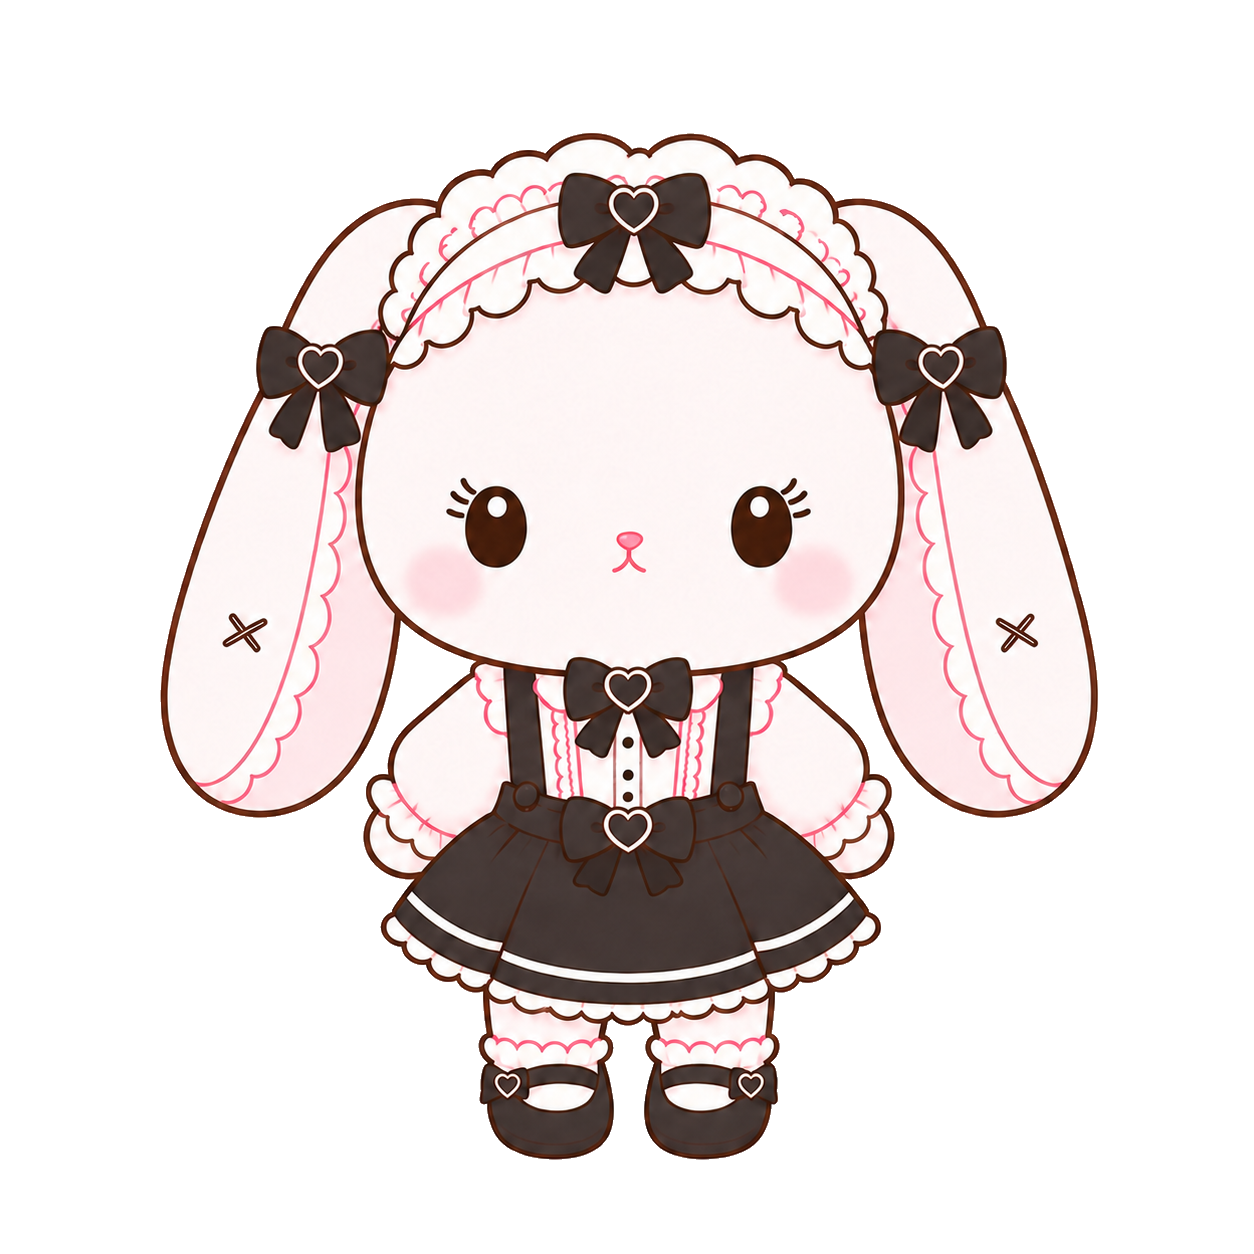
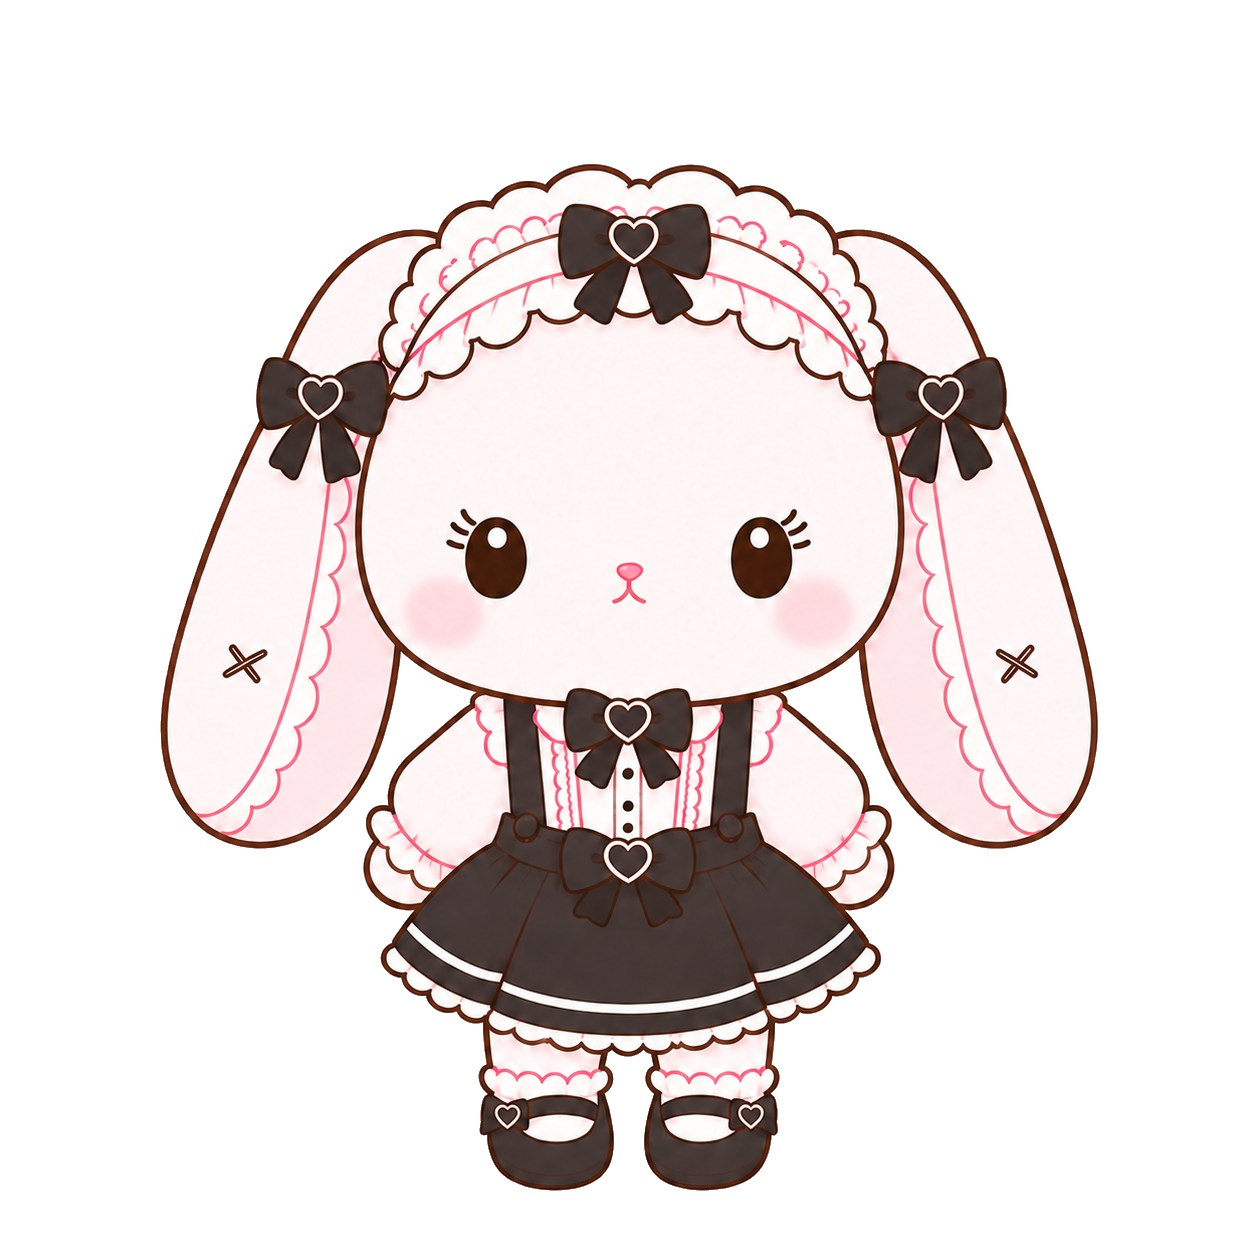
fix(companions): align skin feet + size Miel/Tira outfits
Home/wardrobe/gallery plant a companion by its art, so skins whose feet
sat at different Y in the canvas rendered higher/lower when switched.
Vertically align every off skin to its character's classic feet line:
honey/champion (-74px), bunny/jiraikei (-31), bun/dreams (+26),
bunny/palace (+12), tira/chocomint (+10).

Also: Miel's ZZZ pajamas were ~5% small -> head-matched to classic;
Tira's Carefree Days is now deliberately a touch smaller (baked into the
art), replacing the Home-only 0.92 scale hack. Metrics re-measured.

Changed region(s): [[0.1244, 0.0933, 0.9019, 0.9641], [0.4976, 0.4043, 0.5287, 0.4976]]

diff --git a/src/constants/figure-calibration.ts b/src/constants/figure-calibration.ts
@@ -6,20 +6,20 @@
 export const FIGURE_METRICS: Record<string, { fill: number; pad: number }> = {
   'bun/angel': { fill: 0.8605, pad: 0.0706 },
   'bun/classic': { fill: 0.8317, pad: 0.0758 },
-  'bun/dreams': { fill: 0.8644, pad: 0.0550 },
+  'bun/dreams': { fill: 0.8644, pad: 0.0758 },
   'bun/snowrabbit': { fill: 0.8309, pad: 0.0766 },
   'bun/strawberry': { fill: 0.7974, pad: 0.0766 },
   'companion_bunny/classic': { fill: 0.8939, pad: 0.0502 },
-  'companion_bunny/jiraikei': { fill: 0.8190, pad: 0.0750 },
-  'companion_bunny/palace': { fill: 0.9370, pad: 0.0407 },
+  'companion_bunny/jiraikei': { fill: 0.8190, pad: 0.0502 },
+  'companion_bunny/palace': { fill: 0.9370, pad: 0.0502 },
   'companion_cocoa/classic': { fill: 0.8876, pad: 0.0598 },
   'companion_cocoa/demon': { fill: 0.8892, pad: 0.0606 },
   'companion_cocoa/relax': { fill: 0.8349, pad: 0.0606 },
-  'companion_honey/champion': { fill: 0.8325, pad: 0.0845 },
+  'companion_honey/champion': { fill: 0.8325, pad: 0.0255 },
   'companion_honey/classic': { fill: 0.9537, pad: 0.0255 },
-  'companion_honey/zzz': { fill: 0.8644, pad: 0.0526 },
-  'companion_tira/afternoontrain': { fill: 0.8788, pad: 0.0502 },
-  'companion_tira/chocomint': { fill: 0.8828, pad: 0.0423 },
+  'companion_honey/zzz': { fill: 0.9107, pad: 0.0263 },
+  'companion_tira/afternoontrain': { fill: 0.7536, pad: 0.0510 },
+  'companion_tira/chocomint': { fill: 0.8828, pad: 0.0502 },
   'companion_tira/classic': { fill: 0.8788, pad: 0.0502 },
   'companion_tira/sleepover': { fill: 0.8796, pad: 0.0494 },
   'hanji/classic': { fill: 0.8692, pad: 0.0582 },

diff --git a/src/app/(tabs)/index.tsx b/src/app/(tabs)/index.tsx
@@ -832,10 +832,11 @@ export default function HomeScreen() {
   // Some companion art reads a touch small next to the others — nudge it up a bit,
   // anchored at the feet so it stays planted on the desk. (Hanji's scale only hits
   // her flat outfit skins; her default animated figure renders down a separate path.)
+  // Tira's Carefree Days is sized down in the ARTWORK itself (a deliberate petite
+  // look), so it no longer needs a per-skin nudge here.
   const companionScale =
     activeCompanion.type === 'shop' && activeCompanion.id === 'companion_cocoa' ? 1.08
     : activeCompanion.type === 'shop' && activeCompanion.id === 'companion_hanji' ? 1.02
-    : activeCompanion.type === 'shop' && activeCompanion.id === 'companion_tira' && companionSkins?.['shop:companion_tira'] === 'afternoontrain' ? 0.92
     : 1;
   // Tablet character layer. Cocoa (every Cocoa skin keeps id `companion_cocoa`)
   // sits higher in her art than the others, so drop her by an extra `cocoaY`.
